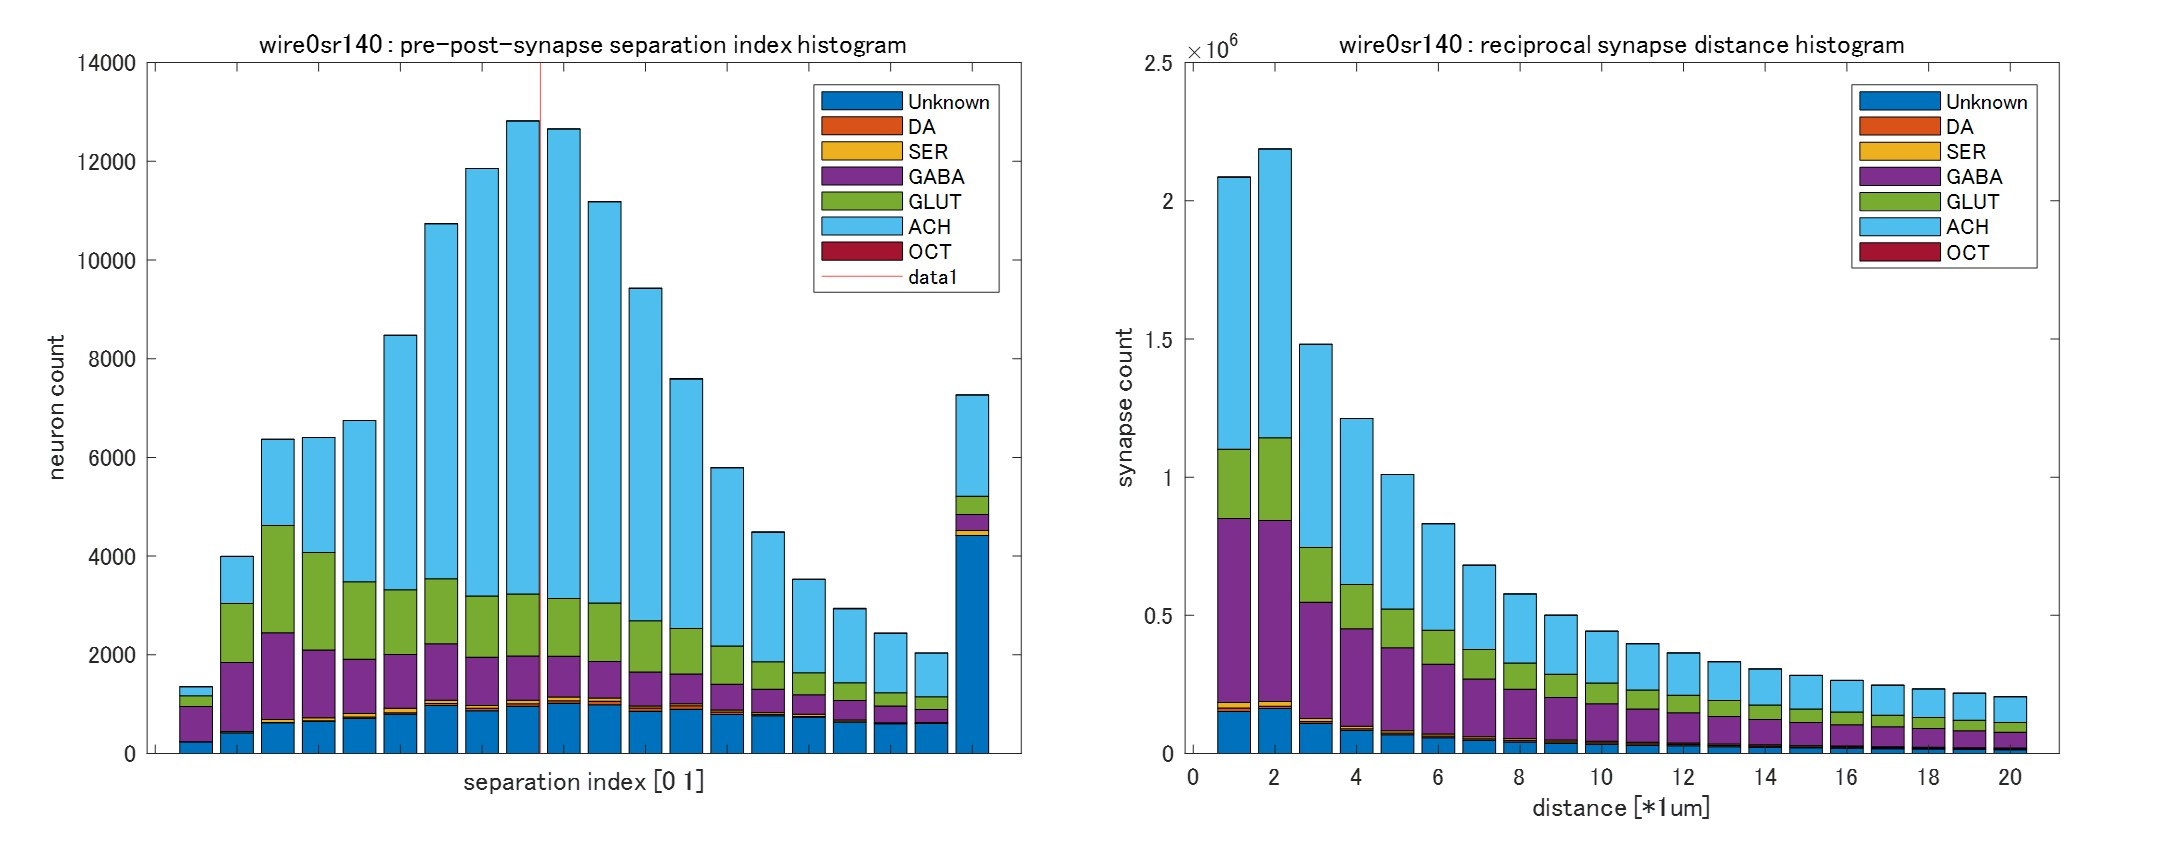
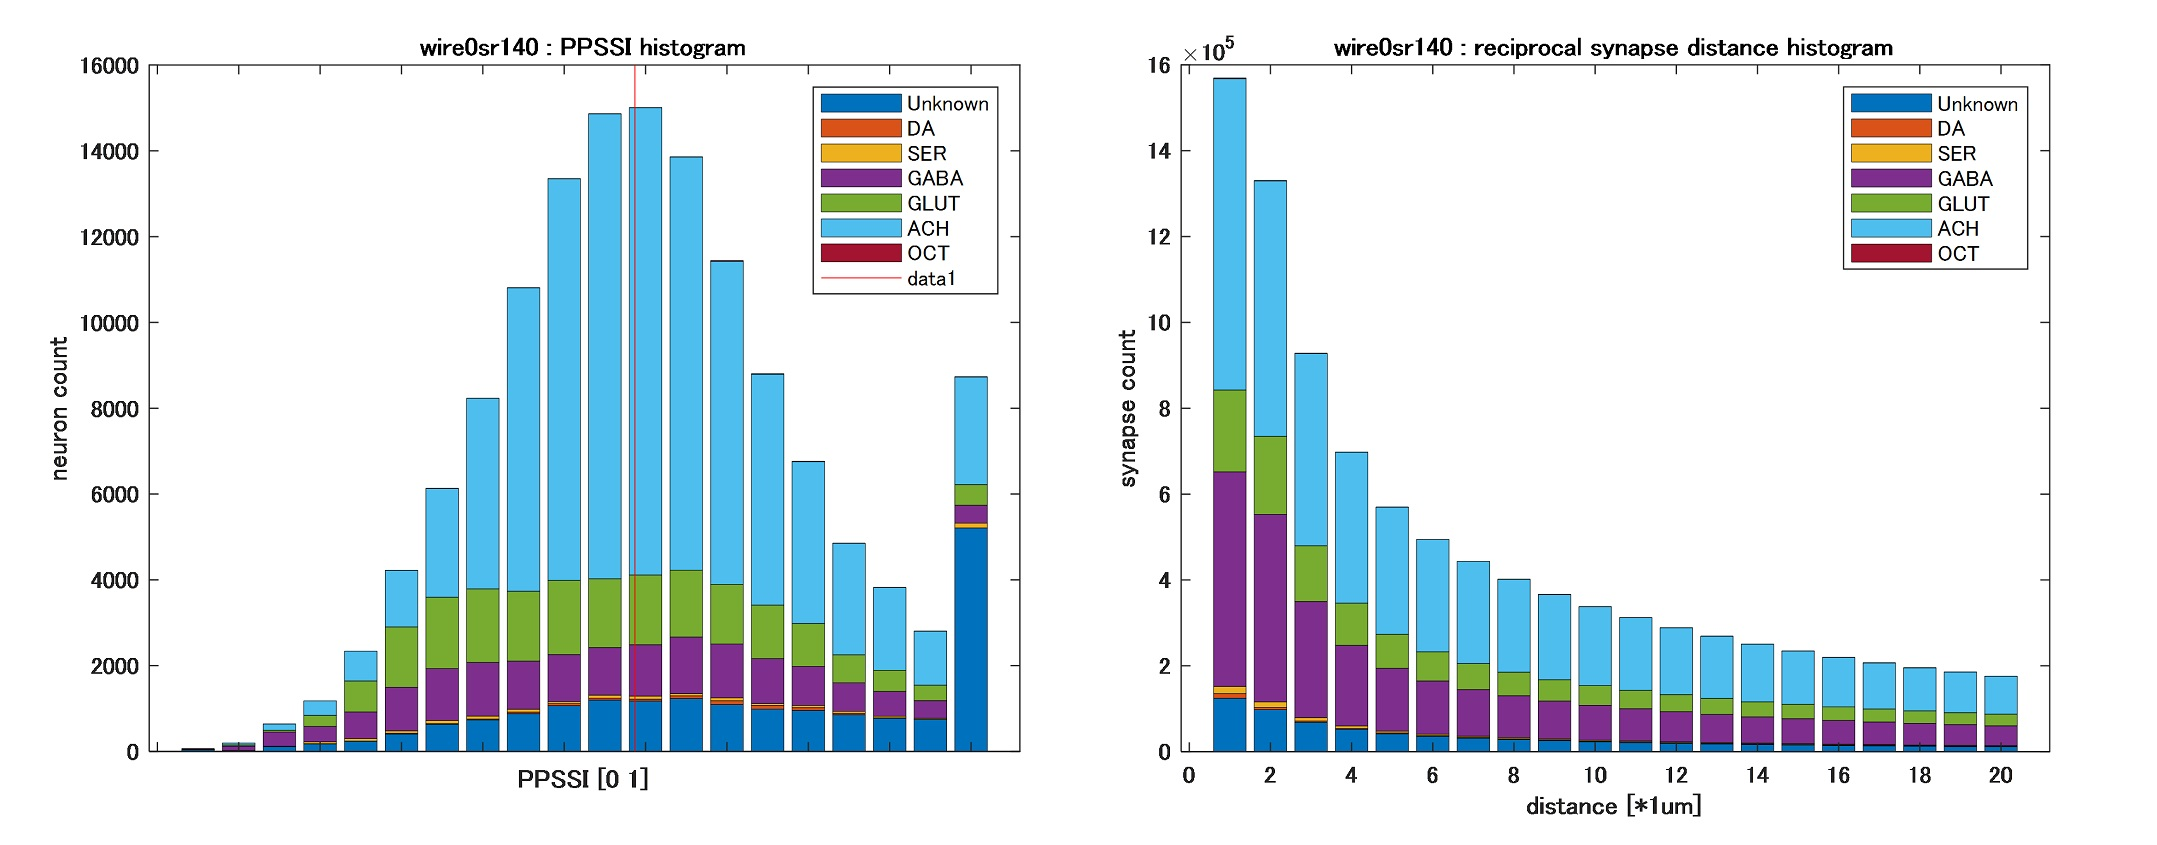
fixed for demos.

diff --git a/plotFuncConnectivity.m b/plotFuncConnectivity.m
@@ -583,12 +583,12 @@ function checkRandSubsampleRankTestByHemiroi(vslabels)
 %    roitypes = {{'hemiroi','_fw0sr140_rd185-20'},{'hemiroi','_fw0sr140_rd1560-80'},{'hemiroi','_fw0sr140_rd140-15'},};
 %    roitypes = {{'hemiroi','_fw0sr140_rd320-20-35'},{'hemiroi','_fw0sr140_rd1560-80'},{'hemiroi','_fw0sr140_rd195-20-60'},}; % (old) straight-line distance
     roitypes = {{'hemiroi','_fw0sr140_rd170-15-35'},{'hemiroi','_fw0sr140_rd2200-80-150'},{'hemiroi','_fw0sr140_rd110-11-70'},}; % (new) morphological-based distance
-    roitypes = {{'hemiroi','_hb0sr80fw_rd200-20-41'},{'hemiroi','_hb0sr80fw_rd700-50-150'},{'hemiroi','_hb0sr80fw_rd110-11-110'}}; % (new) morphological-based distance
+%    roitypes = {{'hemiroi','_hb0sr80fw_rd200-20-41'},{'hemiroi','_hb0sr80fw_rd700-50-150'},{'hemiroi','_hb0sr80fw_rd110-11-110'}}; % (new) morphological-based distance
 %    targets = {{'hemiroi','_hb0sr80_sp10db3000mi1_only1'},{'hemiroi','_hb0sr80_sp90db3000mi1'},{'hemiroi','_hb0sr80_rc20_only1'}, ...
 %        {'hemiroi','_fw0sr140_sp10db3000mi1_only1'},{'hemiroi','_fw0sr140_sp90db3000mi1'},{'hemiroi','_fw0sr140_rc20_only1'},};
 %    targets = {{'hemiroi','_fw0sr140_sp10db3000mi1_only1'},{'hemiroi','_fw0sr140_sp90db3000mi1'},{'hemiroi','_fw0sr140_rc20_only1'},}; % (old) straight-line distance
     targets = {{'hemiroi','_fw0sr140_sp10db3000mi1_md_only1'},{'hemiroi','_fw0sr140_sp90db3000mi1_md'},{'hemiroi','_fw0sr140_rc20_md_only1'},}; % (new) morphological-based distance
-    targets = {{'hemiroi','_hb0sr80fw_sp10db3000mi1_md_only1'},{'hemiroi','_hb0sr80fw_sp90db3000mi1_md'},{'hemiroi','_hb0sr80fw_rc20_md_only1'},}; % (new) morphological-based distance
+%    targets = {{'hemiroi','_hb0sr80fw_sp10db3000mi1_md_only1'},{'hemiroi','_hb0sr80fw_sp90db3000mi1_md'},{'hemiroi','_hb0sr80fw_rc20_md_only1'},}; % (new) morphological-based distance
     rNums = 1:99; % for random subsampling number
     pval = 0.05 / 6; % bonferroni correction
 

diff --git a/plotNeuralFC.m b/plotNeuralFC.m
@@ -53,7 +53,7 @@ function plotNeuralFC
 %    showNeuralFCFw(conf, epsilon, minpts); % no use
 
     showNeuralDBScanFw(conf, epsilon, minpts, '_neuralMorphDist', '_md'); % Fig.4 morphological-based distance clustering (for reviewer answer)
-    showNeuralDBScanSpidxFw(conf, epsilon, minpts, int64(720575940644632087), '_neuralMorphDist', '_md'); % WAGN figure.5h
+%    showNeuralDBScanSpidxFw(conf, epsilon, minpts, int64(720575940644632087), '_neuralMorphDist', '_md'); % WAGN figure.5h
 %    showNeuralDBScanSyCloudFw(conf, epsilon, minpts, [0 0.1], '_neuralMorphDist', '_md'); % ext figure.4-2
 %    showNeuralDBScanSyCloudFw(conf, epsilon, minpts, [0.9 1], '_neuralMorphDist', '_md'); % ext figure.4-2
 
@@ -325,7 +325,8 @@ function showNeuralDBScanFw(conf, epsilon, minpts, diststr, mdstr)
     xline(20 * nanmean(Nspidx),'r'); 
 %    figure; histogram(Ldbs);
 
-    % show histogram (segregation index)
+    % show histogram (segregation index) for Ext. Data Fig.
+%{
     edges = 0:0.05:1;
     N = [];
     for i=1:length(tlabels)
@@ -338,7 +339,7 @@ function showNeuralDBScanFw(conf, epsilon, minpts, diststr, mdstr)
     title([conf.scname num2str(synTh) 'sr' num2str(scoreTh) ' : pre-post-synapse segregation index histogram']);
     xline(20 * nanmean(H),'r'); 
 %    figure; histogram(Ldbs);
-
+%}
     Nspidx(isnan(Nspidx)) = -1;
     NsywMixScore(isnan(NsywMixScore)) = -1;
     NsywSepScore(isnan(NsywSepScore)) = -1;
